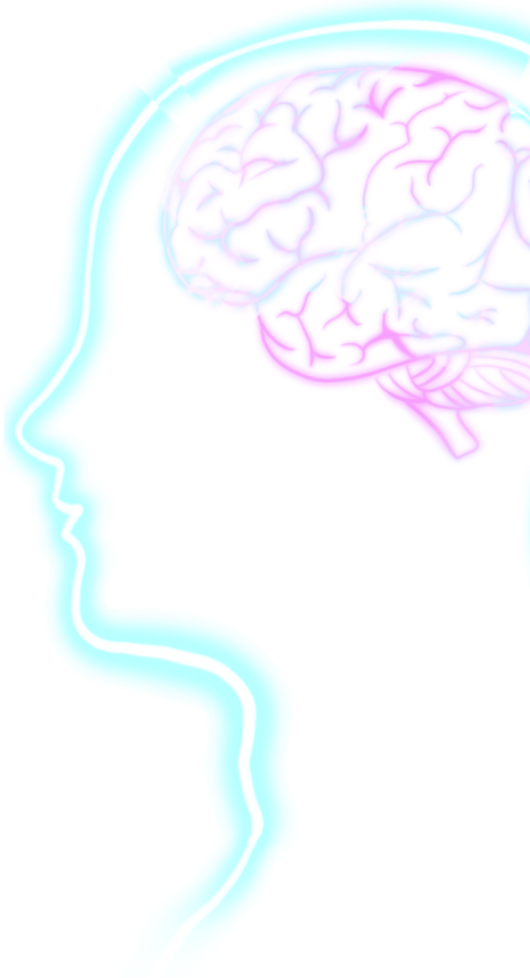
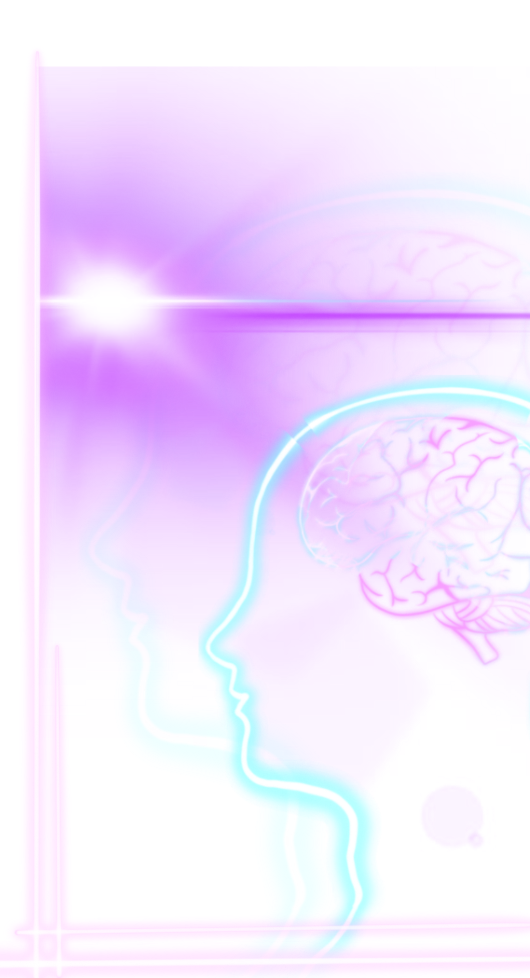
styling on info and addition of new brain image on home page

diff --git a/src/components/Info.js b/src/components/Info.js
@@ -4,6 +4,9 @@ import { motion } from "framer-motion";
 import Cards from "./Cards";
 import CardAlt from "./CardAlt";
 import redBrain from "./pics/redBrain.png";
+import lizardPink from "./pics/lizard1.png";
+import lizardYellow from "./pics/lizard2.png";
+import lizardBlue from "./pics/lizard3.png";
 
 export function Info() {
   const mountCards = window.innerWidth > 1400;
@@ -20,26 +23,37 @@ export function Info() {
       </div>
 
       <div>
-        <p>
-          Traditionally, human art has been celebrated for its uniqueness and
-          the inherent human experiences and emotions it encapsulates. AI has
-          shown that it can generate artworks that possess similar qualities,
-          blurring the line between what is created by humans and what is
-          created by machines.
-        </p>
-        <p>
-          This advancement has sparked worry among artists who fear that their
-          livelihoods may be threatened. With AI capable of generating art that
-          is aesthetically pleasing and conceptually rich, some artists feel
-          that their creative expertise is being overshadowed.
-        </p>
-        <p>
-          The impact of AI on the art industry raises significant questions
-          about cost and efficiency. Creating art is often a time-consuming
-          process that can take weeks, if not months, to complete. For
-          businesses or individuals commissioning artwork, this extended
-          timeline can result in higher costs and delayed deliverables.
-        </p>
+        <div className="first-section">
+          <div className="lizard-para">
+            <img className="lizards" src={lizardPink}></img>
+            <p>
+              Traditionally, human art has been celebrated for its uniqueness
+              and the inherent human experiences and emotions it encapsulates.
+              AI has shown that it can generate artworks that possess similar
+              qualities, blurring the line between what is created by humans and
+              what is created by machines.
+            </p>
+          </div>
+          <div className="lizard-para">
+            <img className="lizards" src={lizardYellow}></img>
+            <p>
+              This advancement has sparked worry among artists who fear that
+              their livelihoods may be threatened. With AI capable of generating
+              art that is aesthetically pleasing and conceptually rich, some
+              artists feel that their creative expertise is being overshadowed.
+            </p>
+          </div>
+          <div className="lizard-para">
+            <img className="lizards" src={lizardBlue}></img>
+            <p>
+              The impact of AI on the art industry raises significant questions
+              about cost and efficiency. Creating art is often a time-consuming
+              process that can take weeks, if not months, to complete. For
+              businesses or individuals commissioning artwork, this extended
+              timeline can result in higher costs and delayed deliverables.
+            </p>
+          </div>
+        </div>
         <div div className="red-brain">
           <p className="brain-para">
             AI offers a faster alternative. Machine learning algorithms can
@@ -60,19 +74,8 @@ export function Info() {
         </div>
 
         <div className="human-art">
-          <h2> A few thoughts.. </h2>
-          <p>
-            Here are a few reasons i personally think there will always be a
-            place for human art.
-          </p>
+          <p>There will always be a place for us</p>
           {mountCards ? <Cards /> : <CardAlt />}
-        </div>
-        <div className="last-para-container">
-          <p id="last-para">
-            The human touch, the personal perspective, and the emotional depth
-            conveyed through brushstrokes, sculpting, or any other artistic
-            medium have an undeniable allure.
-          </p>
         </div>
       </div>
     </motion.div>

diff --git a/src/components/Info.css b/src/components/Info.css
@@ -1,3 +1,21 @@
+.first-section {
+  margin-top: 3%;
+  margin-bottom: 10%;
+}
+
+.lizard-para {
+  display: flex;
+  align-items: center;
+  margin-left: 2%;
+  margin-bottom: 3%;
+}
+.lizard-para p {
+  margin-left: 3%;
+  max-width: 90%;
+}
+.lizards {
+  max-width: 70px;
+}
 .human-art {
   text-align: center;
 
@@ -12,24 +30,24 @@
   justify-content: center;
   background-color: rgba(0, 0, 0, 0.51);
   border-bottom: 1px solid rgb(244, 122, 255);
-  box-shadow: 0px -30px 30px rgba(0, 0, 0, 0.6),
+  box-shadow: 0px -30px 30px rgba(0, 0, 0, 0.7),
     0px 30px 80px rgba(238, 0, 255, 0.308);
   margin-top: 5%;
-  margin-bottom: 8%;
+  margin-bottom: 12%;
   padding-bottom: 1%;
 }
 .red-brain img {
-  max-width: 25%;
+  max-width: 450px;
   margin-left: 4%;
   margin-right: 4%;
-  animation: pulsate 3s infinite;
+  animation: pulsate 7s infinite;
 }
 @keyframes pulsate {
   0% {
     opacity: 1;
   }
   50% {
-    opacity: 0.5;
+    opacity: 0.2;
   }
   100% {
     opacity: 1;

diff --git a/src/components/HomeCSS.css b/src/components/HomeCSS.css
@@ -180,11 +180,12 @@ p {
 
 #brain {
   grid-area: brain;
-  justify-self: end;
-  place-self: end;
-  height: auto;
-  width: 68%;
-  /* backdrop-filter: blur(5px); */
+  /* justify-self: end;
+  place-self: end; */
+
+  padding-top: 5%;
+  padding-left: 10%;
+  width: 70%;
 }
 .softwareGrid {
   display: grid;
@@ -337,6 +338,7 @@ p {
   .carousel img {
     width: calc(100% / 2);
   }
+
   .para {
     display: grid;
 
@@ -355,10 +357,9 @@ p {
     align-items: center;
   }
   #brain {
-    margin-top: 10%;
-    width: 25%;
-    border: 1px dashed rgb(111, 245, 255);
-    box-shadow: 0 0 20px rgba(0, 132, 255, 0.687);
+    margin-top: 3%;
+    width: 35%;
+
     padding-left: 50px;
     padding-top: 10px;
   }
@@ -404,9 +405,9 @@ p {
   }
   #brain {
     position: relative;
-    top: 60px;
-    max-width: 100px;
-    margin: 4%;
+    top: 50px;
+    max-width: 25%;
+    margin-bottom: 9%;
   }
   .quote-container {
     padding-top: 10px;

diff --git a/src/components/GameCSS.css b/src/components/GameCSS.css
@@ -55,16 +55,18 @@
 }
 
 .parent-reset {
-  margin-top: 5%;
+  /* margin-top: 5%; */
   display: flex;
   align-items: center;
   justify-content: center;
-  margin-bottom: 30%;
+  margin-bottom: 25px;
 }
 .resetButton {
+  transform: translateY(-50px);
+
   border-radius: 50%;
   border: 2px solid rgb(192, 192, 255);
-  padding: 4%;
+  padding: 2%;
   font-family: "Indie Flower", cursive;
   color: rgb(160, 250, 255);
   background-color: rgba(0, 0, 0, 0.097);
